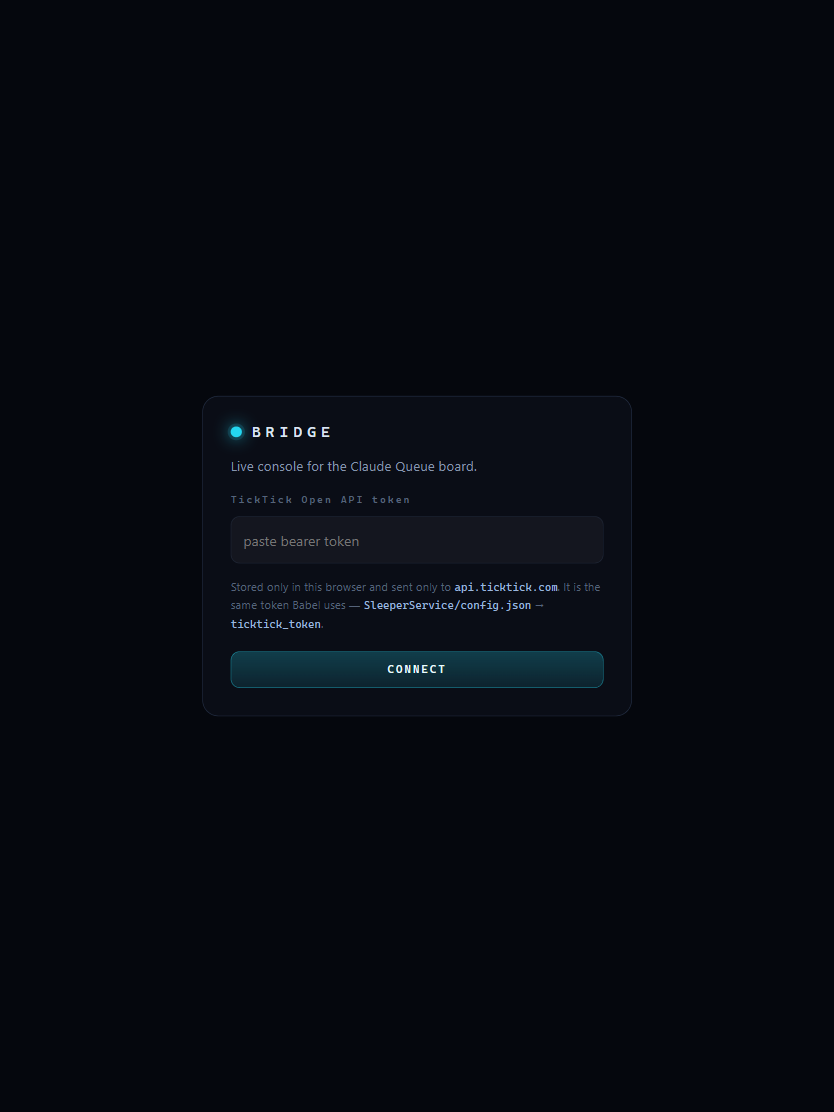
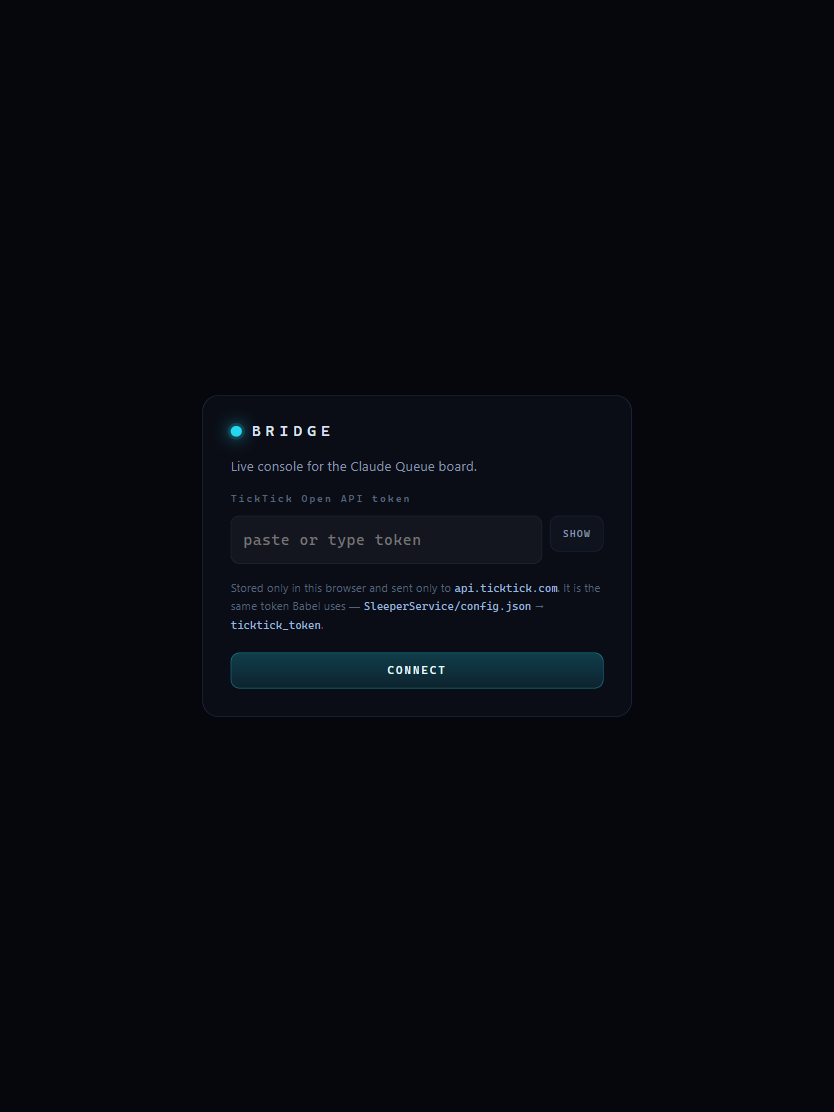
Setup: disable iOS autocapitalize/autocorrect, add reveal toggle
The token is 35 lowercase characters and iPadOS will capitalise the first one
or autocorrect a letter run, producing a rejection with no obvious cause.
Reveal toggle because typing a 35-char secret blind on a tablet is a coin flip.

diff --git a/index.html b/index.html
@@ -23,8 +23,15 @@
     <div class="brand"><span class="brand-mark"></span><h1>BRIDGE</h1></div>
     <p class="setup-lede">Live console for the Claude Queue board.</p>
     <label for="tokenInput">TickTick Open API token</label>
-    <input id="tokenInput" type="password" autocomplete="off" spellcheck="false"
-           placeholder="paste bearer token">
+    <!-- autocapitalize/autocorrect off matter on iPadOS: the token is all lowercase and
+         iOS will happily capitalise the first character or "correct" a run of letters. -->
+    <div class="token-row">
+      <input id="tokenInput" type="password" autocomplete="off" autocapitalize="none"
+             autocorrect="off" spellcheck="false" inputmode="text"
+             placeholder="paste or type token">
+      <button id="tokenReveal" class="icon-btn" type="button"
+              aria-label="Show token">SHOW</button>
+    </div>
     <p class="setup-note">
       Stored only in this browser and sent only to <code>api.ticktick.com</code>.
       It is the same token Babel uses &mdash; <code>SleeperService/config.json</code> &rarr;

diff --git a/style.css b/style.css
@@ -478,6 +478,14 @@ textarea:focus, input:focus { outline: none; border-color: rgba(36,214,240,.55);
 .setup-card .brand { margin-bottom: 4px; }
 .setup-lede { font: 400 13.5px/1.55 var(--sans); color: var(--ink-dim); margin: 0 0 6px; }
 .setup-card label { font: 600 10px/1 var(--mono); letter-spacing: .2em; color: var(--ink-faint); }
+/* Reveal toggle: a 35-character token typed blind on a tablet is a coin flip. */
+.token-row { display: flex; gap: 8px; align-items: stretch; }
+.token-row input { flex: 1 1 auto; min-width: 0; }
+.token-row .icon-btn {
+  width: auto; padding: 0 12px; flex: none;
+  font: 600 10px/1 var(--mono); letter-spacing: .12em;
+}
+#tokenInput { font-family: var(--mono); font-size: 15px; letter-spacing: .04em; }
 .setup-note { font: 400 11.5px/1.6 var(--sans); color: var(--ink-faint); margin: 2px 0 6px; }
 .setup-note code { font-family: var(--mono); font-size: 11px; color: #9ab6dd; }
 .setup-err { font: 500 12px/1.5 var(--mono); color: var(--blocked); margin: 0; }

diff --git a/app.js b/app.js
@@ -632,6 +632,12 @@ function init() {
     }
   };
   $('#tokenInput').addEventListener('keydown', e => { if (e.key === 'Enter') $('#setupSave').click(); });
+  $('#tokenReveal').onclick = () => {
+    const i = $('#tokenInput');
+    const show = i.type === 'password';
+    i.type = show ? 'text' : 'password';
+    $('#tokenReveal').textContent = show ? 'HIDE' : 'SHOW';
+  };
 
   $('#btnRefresh').onclick  = () => refresh();
   $('#btnSettings').onclick = () => { initSettings(); $('#settings').hidden = false; };
